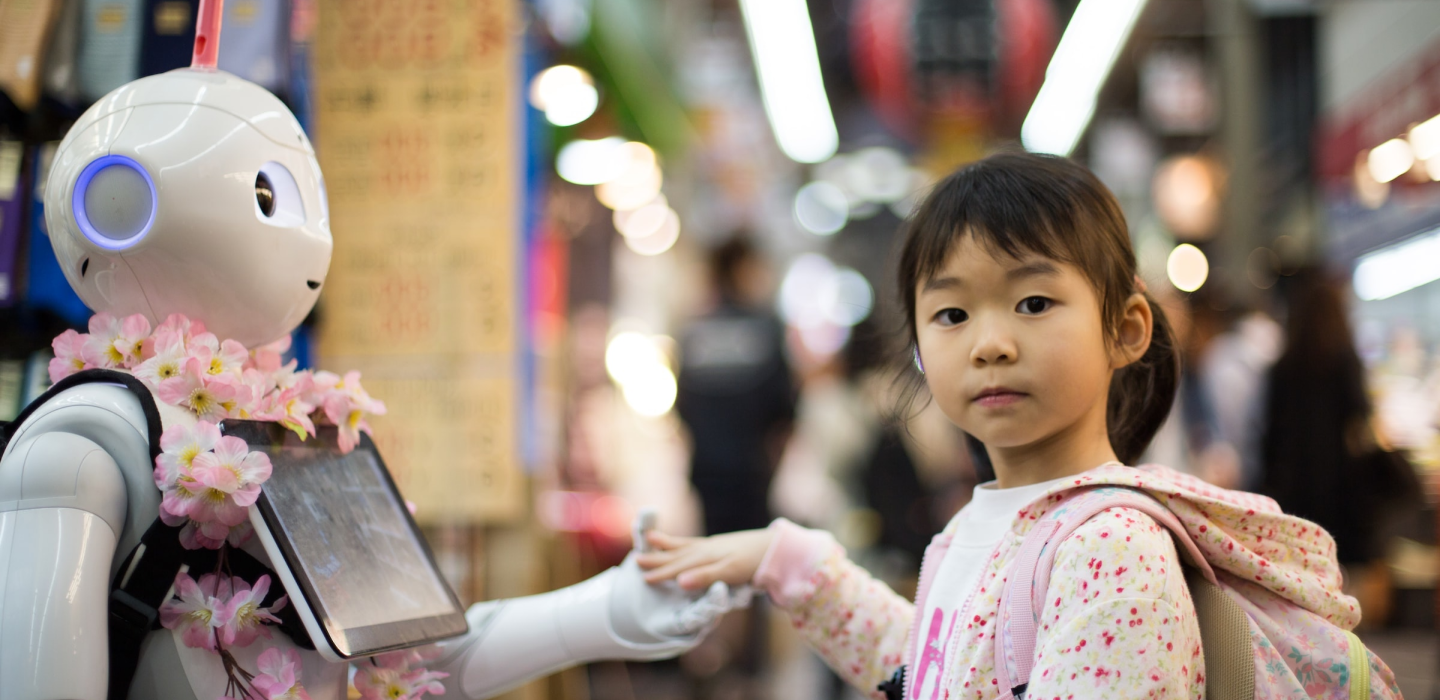
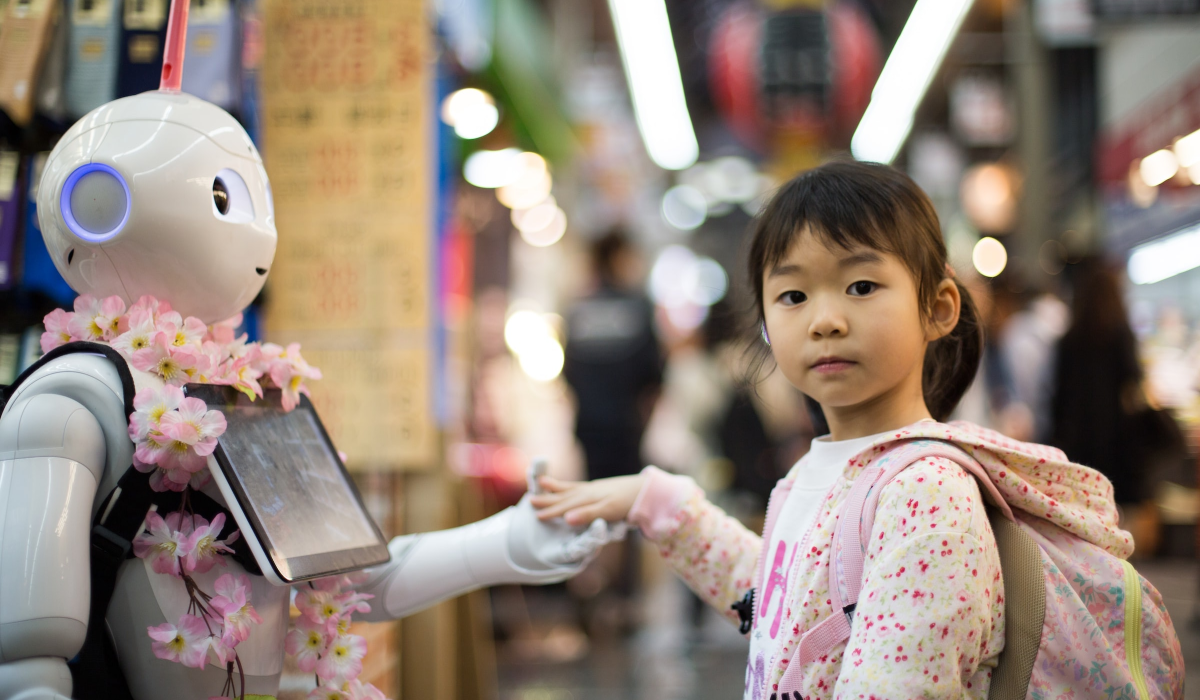
added media queries

diff --git a/src/components/Intro.jsx b/src/components/Intro.jsx
@@ -2,8 +2,8 @@ import { image1, image2 } from "../assets";
 
 const Intro = () => {
   return (
-    <section className="w-full flex flex-col">
-      <div className="lg:hidden md:block w-full px-10 pt-6 pb-8 bg-gradient-to-l from-cyan-500 to-green-400 flex-col justify-start items-start flex">
+    <section className="">
+      <div className="md:hidden flex flex-col justify-start items-start w-full px-5 sm:px-10 pt-6 pb-8 bg-gradient-to-l from-cyan-500 to-green-400">
         <div className="self-stretch text-white text-5xl font-bold font-['Inter'] mb-[20px] capitalize leading-[48px]">
           We crush your competitors, goals, and sales records - without the B.S.
         </div>
@@ -13,57 +13,59 @@ const Intro = () => {
       </div>
 
       <div className="wrapper2">
-        <div className="3xl:w-[1064px] 3xl:h-[414px] lg:w-[896px] lg:h-[348px] justify-start items-center gap-[108px] inline-flex">
+        <div className="flex sm:flex-row flex-col justify-start items-center md:gap-[20px] lg:gap-[108px] gap-[20px]">
           <img
-            className="3xl:w-[414px] 3xl:h-[414px] lg:w-[346px] lg:h-[346px]"
+            className="lg:w-[414px] lg:h-[414px] md:w-[346px] md:h-[346px] w-[275px] h-[275px]"
             src={image2}
           />
-          <div className="w-[542px] flex-col justify-start items-start gap-5 inline-flex">
-            <div className="flex-col justify-start items-start gap-3 flex">
-              <div className="w-[507px] text-violet-700 text-[27px] font-semibold font-['Poppins'] leading-[33px] tracking-wide">
+          <div className="flex flex-col justify-start sm:items-start items-center gap-5">
+            <div className="flex sm:justify-start justify-center">
+              <div className="text-violet-700 text-[27px] font-semibold font-['Poppins'] leading-[33px] tracking-wide text-center sm:text-start">
                 Web & Mobile App Development
               </div>
             </div>
-            <div className="self-stretch text-black text-base font-normal font-['Inter']">
+            <p className="self-stretch text-black text-base text-center sm:text-start font-normal font-['Inter']">
               Your web and mobile Apps are pieces of the puzzle to grow your
               business. We use frameworks which tailor content and engagement
               methods to respond to different intents shown by your potential
               customers who interact with your business online.
-            </div>
-            <div className="px-5 py-3 bg-orange-400 rounded justify-start items-start gap-2 inline-flex">
+            </p>
+            <a
+              href="#"
+              className="px-5 py-3 bg-orange-400 rounded justify-start items-start gap-2 inline-flex"
+            >
               <div className="text-white text-sm font-bold font-['Inter'] uppercase leading-[14px]">
                 LEARN MORE
               </div>
-            </div>
+            </a>
           </div>
         </div>
-        <div>
-          <div></div>
-          <div></div>
-        </div>
 
-        <div className="3xl:w-[1064px] 3xl:h-[414px] lg:w-[896px] lg:h-[348px] justify-start items-center gap-[108px] inline-flex">
-          <div className="w-[542px] flex-col justify-start items-start gap-5 inline-flex">
-            <div className="flex-col justify-start items-start gap-3 flex">
-              <div className="w-[507px] text-violet-700 text-[27px] font-semibold font-['Poppins'] leading-[33px] tracking-wide">
+        <div className="flex sm:flex-row flex-col-reverse justify-start items-center lg:gap-[108px] gap-[20px]">
+          <div className="flex flex-col justify-start sm:items-start items-center gap-5">
+            <div className="flex sm:justify-start justify-center">
+              <div className="text-violet-700 text-[27px] font-semibold font-['Poppins'] leading-[33px] tracking-wide text-center sm:text-start">
                 Digital Strategy Consulting
               </div>
             </div>
-            <div className="self-stretch text-black text-base font-normal font-['Inter']">
+            <p className="self-stretch text-black text-center sm:text-start text-base font-normal font-['Inter']">
               Your digital strategy should complement the overall marketing
               strategy of the company. In online marketing, each component will
               never work in isolation and every business needs a different mix.
               We provide a clear concept and strategic overview to find the most
               efficient model for your business.
-            </div>
-            <div className="px-5 py-3 bg-orange-400 rounded justify-start items-start gap-2 inline-flex">
+            </p>
+            <a
+              href="#"
+              className="px-5 py-3 bg-orange-400 rounded justify-start items-start gap-2 inline-flex"
+            >
               <div className="text-white text-sm font-bold font-['Inter'] uppercase leading-[14px]">
                 LEARN MORE
               </div>
-            </div>
+            </a>
           </div>
           <img
-            className="3xl:w-[414px] 3xl:h-[416px] lg:w-[346px] lg:h-[348px]"
+            className="lg:w-[414px] lg:h-[416px] md:w-[346px] md:h-[348px] w-[275px] h-[276px]"
             src={image1}
           />
         </div>

diff --git a/src/components/Footer.jsx b/src/components/Footer.jsx
@@ -2,9 +2,9 @@ import { logo } from "../assets";
 
 const Footer = () => {
   return (
-    <div className="w-full 3xl:min-w-[1440px] lg:min-w-[1080px] 3xl:mt-[100px] lg:mt-20 pt-10 pb-10 px-20 bg-violet-700 flex flex-col items-center gap-10">
-      <div className="flex justify-between items-start w-full">
-        <div className="w-[413px] flex-col justify-start items-start gap-5 inline-flex">
+    <footer className="lg:px-20 md:px-[60px] sm:px-10 px-5 pb-5 pt-10 bg-violet-700 flex flex-col items-center gap-10">
+      <div className="flex md:justify-between flex-col md:flex-row md:gap-[112px] gap-[60px] items-start w-full">
+        <div className="flex flex-col justify-start items-start gap-5">
           <div className="w-[238.89px] h-[25px] relative">
             <img
               src={logo}
@@ -17,7 +17,7 @@ const Footer = () => {
             business results.
           </div>
         </div>
-        <div className="flex justify-between items-start gap-32">
+        <div className="flex justify-between sm:flex-row flex-col items-start lg:gap-32 md:gap-5 gap-10 sm:gap-[79px]">
           <div className="w-[197px] flex-col justify-start items-start gap-3 inline-flex">
             <div className="text-white text-[21px] font-semibold font-['Inter']">
               Our Technologies
@@ -45,31 +45,19 @@ const Footer = () => {
           </div>
         </div>
       </div>
-      {/* <div className="h-[25px] flex-col justify-start items-center gap-2 flex">
-        <div className="self-stretch h-[0px] border border-white"></div>
-        <div className="justify-center items-center gap-4 inline-flex">
-          <div className="text-white text-sm font-medium font-['Inter'] capitalize">
-            Privacy Policy
-          </div>
-          <div className="w-4 h-[0px] origin-top-left rotate-90 border border-white"></div>
-          <div className="text-white text-sm font-medium font-['Inter'] capitalize">
-            Terms & Conditions
-          </div>
-        </div>
-      </div> */}
       <div className="w-[630px] h-[25px] flex-col justify-start items-center gap-2 inline-flex">
         <div className="self-stretch h-[0px] border border-white"></div>
         <div className="justify-center items-center gap-4 inline-flex">
           <div className="text-white text-sm font-medium font-['Inter'] capitalize">
             Privacy Policy
           </div>
-          <div className="w-4 h-[0px] origin-top-left rotate-90 border border-white"></div>
+          <div className="w-4 h-[0px] rotate-90 border border-white"></div>
           <div className="text-white text-sm font-medium font-['Inter'] capitalize">
             Terms & Conditions
           </div>
         </div>
       </div>
-    </div>
+    </footer>
   );
 };
 

diff --git a/src/components/Header.jsx b/src/components/Header.jsx
@@ -2,21 +2,30 @@ import { heroImg } from "../assets";
 
 const Header = () => {
   return (
-    <header
-      style={{ backgroundImage: `url(${heroImg})` }}
-      className="w-full h-[100vh] bg-cover bg-center"
-    >
+    // <header
+    //   style={{ backgroundImage: `url(${heroImg})` }}
+    //   className="w-auto h-auto bg-cover bg-center"
+    // >
+    <header className="">
       <div className="wrapper1">
-        <div className="h-[306px] px-10 pt-6 pb-8 3xl:left-[80px] 3xl:bottom-[63px] lg:left-[60px] lg:bottom-10 md:hidden lg:block absolute bg-gradient-to-l from-cyan-500 to-green-400 flex flex-col justify-start items-start gap-5">
+        <img
+          src={heroImg}
+          alt="heroImg.png"
+          className="w-full bg-center object-cover object-center"
+        />
+        <div className="w-[622px] px-10 pt-6 pb-8 3xl:left-[80px] 3xl:bottom-[63px] md:left-[60px] md:bottom-10 hidden absolute bg-gradient-to-l from-cyan-500 to-green-400 md:flex flex-col justify-start items-start gap-5">
           <div className="w-[556px] text-white text-5xl font-bold font-['Inter'] capitalize leading-[48px]">
             We crush your competitors, goals, and sales records - without the
             B.S.
           </div>
-          <div className="px-5 py-3 bg-orange-400 rounded justify-start items-start gap-2 inline-flex">
-            <div className="text-white text-sm font-bold font-['Inter'] uppercase leading-[14px]">
+          <a
+            href="#"
+            className="px-5 py-3 bg-orange-400 rounded justify-start items-start gap-2 inline-flex"
+          >
+            <h3 className="text-white text-sm font-bold font-['Inter'] uppercase leading-[14px]">
               Get free consultation
-            </div>
-          </div>
+            </h3>
+          </a>
         </div>
       </div>
     </header>

diff --git a/src/components/Navbar.jsx b/src/components/Navbar.jsx
@@ -1,8 +1,8 @@
-import { logo } from "../assets";
+import { logo, menuIcon } from "../assets";
 
 const Navbar = () => {
   return (
-    <nav className="fixed h-[77px] w-full 3xl:px-20 py-[26px] lg:px-[60px] md:px-10 px-5 bg-bluish_purple z-40">
+    <nav className="py-[26px] lg:px-20 md:px-[60px] sm:px-10 px-5 bg-bluish_purple z-40">
       <div className="flex justify-between items-center">
         <a href="#" className="relative w-[238.89px] h-[25px]">
           <img
@@ -11,7 +11,16 @@ const Navbar = () => {
             alt="logo.png"
           />
         </a>
-        <ul className="flex gap-7 font-['Inter'] text-white text-sm font-medium">
+
+        <a href="#">
+          <img
+            src={menuIcon}
+            className="w-[31px h-[24px] sm:hidden block"
+            alt="menuIcon.png"
+          />
+        </a>
+
+        <ul className="sm:flex hidden gap-7 font-['Inter'] text-white text-sm font-medium">
           <li>
             <a href="#">SERVICES</a>
           </li>

diff --git a/src/index.css b/src/index.css
@@ -3,9 +3,9 @@
 @tailwind utilities;
 
 .wrapper1 {
-  @apply w-full h-[100vh] mx-auto my-0 relative;
+  @apply w-full mx-auto my-0 relative;
 }
 
 .wrapper2 {
-  @apply 3xl:min-w-[1064px] lg:min-w-[896px] my-0 mx-auto flex flex-col gap-20;
+  @apply w-full mx-auto my-0 md:px-[152px] sm:px-10 px-5 lg:px-[183px] py-20 flex flex-col md:gap-20 gap-[60px];
 }

diff --git a/src/assets/index.jsx b/src/assets/index.jsx
@@ -1,6 +1,7 @@
-import heroImg from "./heroimage.png";
+import heroImg from "./heroImage.png";
 import image1 from "./image1.png";
 import image2 from "./image2.png";
 import logo from "./Logo.png";
+import menuIcon from "./Group2.png";
 
-export { heroImg, image1, image2, logo };
+export { heroImg, image1, image2, logo, menuIcon };
